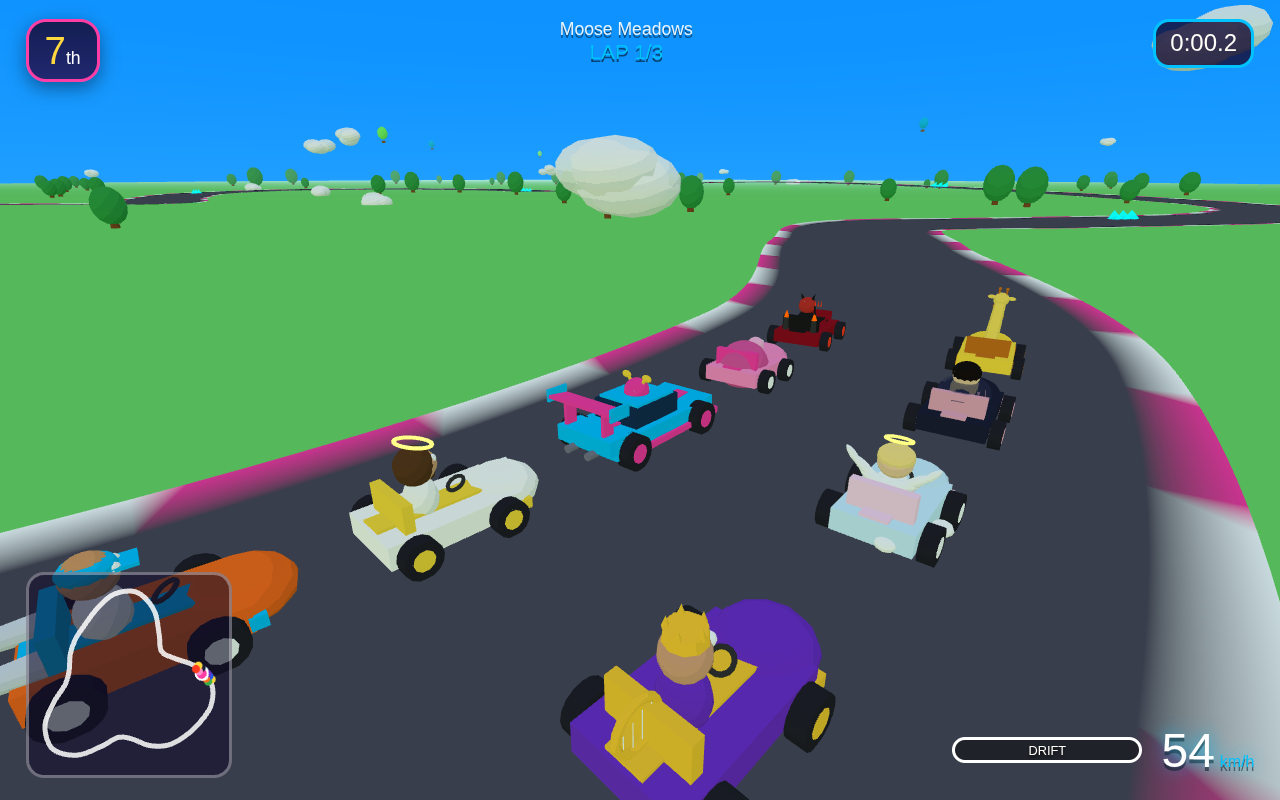
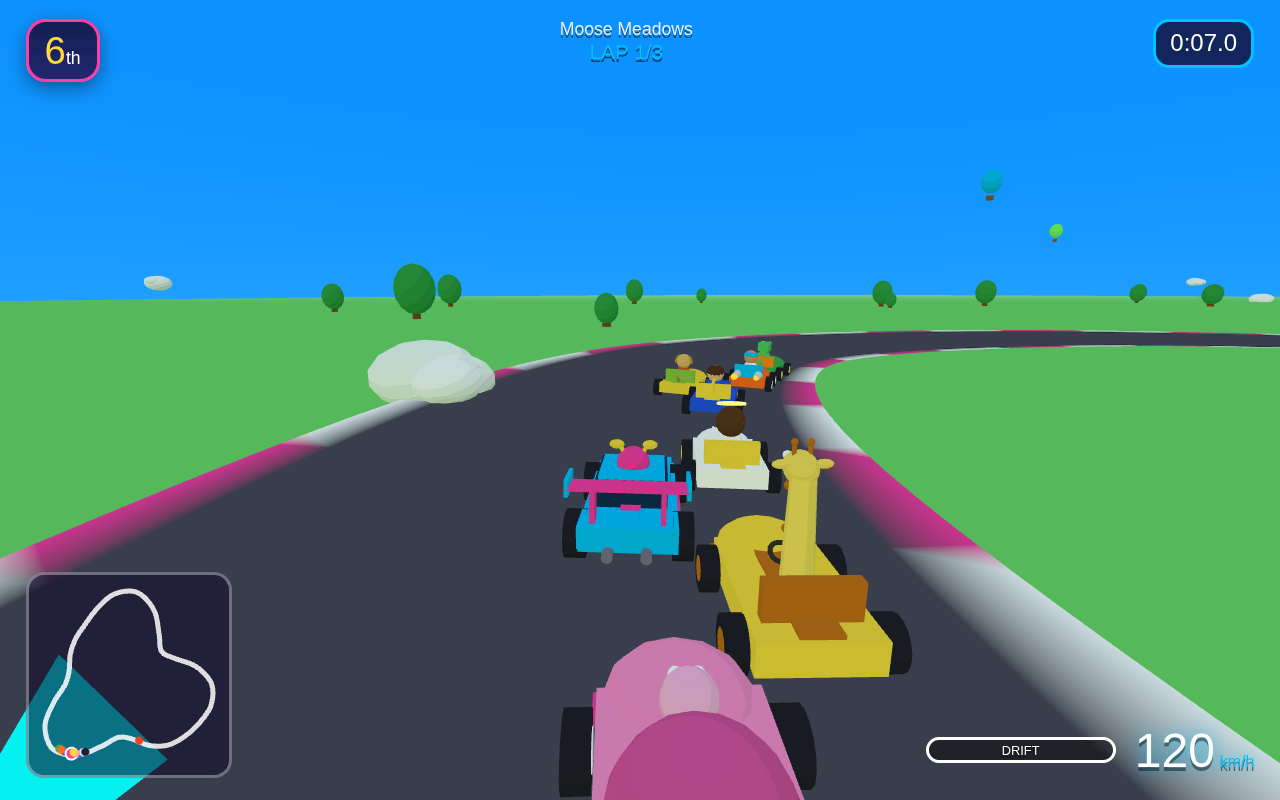
Fix AI steering inversion and kart model orientation
Two bugs from playtesting:

- AI karts veered off the road at race start: the AI steered toward
  positive angle error, but positive steer decreases heading in the
  physics step, so every correction was inverted and the whole field
  spiralled off the track. AI now steers against the angle error and
  holds the racing line.

- All kart models drove backwards: meshes are built nose-toward--Z but
  the movement heading points toward +Z at zero, so every kart faced
  opposite its direction of travel. Models now get a half-turn yaw
  mount with YXZ rotation order, corrected slope pitch, and a proper
  drift pose (nose into the corner, rear sliding out).

Also refresh the README race screenshot to show the fixed orientation.

Claude-Session: https://claude.ai/code/session_01Dmj59Z1k2Tr1AJJcdykMNy

diff --git a/js/race.js b/js/race.js
@@ -111,7 +111,10 @@ export class Race {
       const built = buildKartFor(id);
       const slot = startPositions[i];
       built.group.position.copy(slot.pos);
-      built.group.rotation.y = slot.heading;
+      // models are built nose-toward--Z; movement heading points toward +Z at 0,
+      // so the mesh needs a half-turn to face its direction of travel
+      built.group.rotation.order = 'YXZ';
+      built.group.rotation.y = slot.heading + Math.PI;
       this.scene.add(built.group);
       const kart = {
         id, char, built, isPlayer: id === this.playerCharId,
@@ -302,7 +305,8 @@ export class Race {
     let dAng = desired - kart.heading;
     while (dAng > Math.PI) dAng -= Math.PI * 2;
     while (dAng < -Math.PI) dAng += Math.PI * 2;
-    const steer = THREE.MathUtils.clamp(dAng * 2.4, -1, 1);
+    // positive steer decreases heading (same convention as player input), so steer against dAng
+    const steer = THREE.MathUtils.clamp(-dAng * 2.4, -1, 1);
 
     // slow slightly for big curvature ahead
     const tanNow = samples[kart.si].tan, tanFar = samples[lookFar].tan;
@@ -432,11 +436,12 @@ export class Race {
     for (const kart of this.karts) {
       const g = kart.built.group;
       g.position.copy(kart.pos);
-      // slope pitch
+      // slope pitch (YXZ order: yaw first, then pitch/roll in the kart's own frame)
       const s = this.track.samples[kart.si];
       const ahead = this.track.samples[(kart.si + 6) % this.track.SAMPLES];
       const slope = Math.atan2(ahead.p.y - s.p.y, 6 * (this.track.length / this.track.SAMPLES));
-      g.rotation.set(-slope * Math.cos(kart.driftYaw), kart.heading + kart.driftYaw, kart.steer * -0.08 + kart.driftYaw * -0.25);
+      // drift pose: nose points into the corner while the velocity slides outward
+      g.rotation.set(slope, kart.heading - kart.driftYaw * 0.6 + Math.PI, kart.steer * -0.08 + kart.driftYaw * -0.25);
 
       // drift sparks
       if (kart.drifting && kart.isPlayer) {